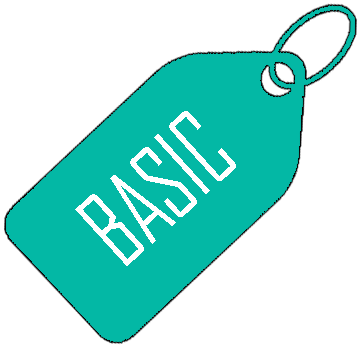
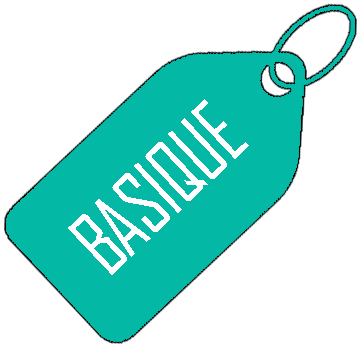
last changes

Changed region(s): [[0.1828, 0.2874, 0.7008, 0.8046]]

diff --git a/pages/tarif.js b/pages/tarif.js
@@ -55,9 +55,10 @@ export default function Tarif() {
             <div className={styles.tarif}>
               <h2>POGO Pack 50</h2>
               <img src="pack50.png" width="110px" height="110px"></img>
-              <p className={styles.price}>5DH offerts </p>
+              <p className={styles.price}>5 DH offerts </p>
               <p>
-                Pour chaque 50 DH rechargés, vous bénéficiez de 55 DH de solde{" "}
+                Pour chaque 50 DH rechargés, vous bénéficiez de
+                <strong> 55 DH </strong> de solde{" "}
               </p>
               <div className={styles.checkContainer}>
                 <div className={styles.check}>
@@ -81,10 +82,11 @@ export default function Tarif() {
               <h2>POGO Pack 100</h2>
 
               <img src="pack100.png" width="110px" height="110px"></img>
-              <p className={styles.price}> 20DH offerts </p>
+              <p className={styles.price}> 20 DH offerts </p>
 
               <p>
-                Pour chaque 100 DH rechargés, vous bénéficiez de 120 DH de solde
+                Pour chaque 100 DH rechargés, vous bénéficiez de{" "}
+                <strong> 120 DH </strong> de solde
               </p>
               <div className={styles.checkContainer}>
                 <div className={styles.check}>
@@ -108,11 +110,12 @@ export default function Tarif() {
               <h2>POGO Pack 200</h2>
 
               <img src="pack200.png" width="110px" height="110px"></img>
-              <p className={styles.price}>50DH offerts </p>
+              <p className={styles.price}>50 DH offerts </p>
 
               <p>
                 {" "}
-                Pour chaque 200 DH rechargés, vous bénéficiez de 250 DH de solde
+                Pour chaque 200 DH rechargés, vous bénéficiez de{" "}
+                <strong>250 DH </strong>de solde
               </p>
               <div className={styles.checkContainer}>
                 <div className={styles.check}>
@@ -136,14 +139,21 @@ export default function Tarif() {
         <h1 className={styles.title}>Votre assurance</h1>
         <div className={styles.assurance}>
           <div className={styles.description}>
-            <span> La sécurité </span> et le bien-être des utilisateurs de nos
-            services est <span>la priorité numéro 1 </span>de POGO. Afin de
-            protéger la communauté POGO, nous collaborons avec l’un des
-            meilleurs fournisseurs d’assurance dans le monde entier, Allianz,
-            pour que vous soyez 100% assurés en conduisant un véhicule POGO.
             <p>
               {" "}
-              <em>en partenariat avec</em>
+              <span> La sécurité </span> et le bien-être des utilisateurs de nos
+              services est <span>la priorité numéro 1 </span>de POGO.
+            </p>
+            <p>
+              {" "}
+              Afin de protéger la communauté POGO, nous collaborons avec l’un
+              des meilleurs fournisseurs d’assurance dans le monde entier,
+              Allianz, pour que vous soyez 100% assurés en conduisant un
+              véhicule POGO.
+            </p>
+            <p style={{ textAlign: "center" }}>
+              {" "}
+              <em>En partenariat avec</em>
             </p>
             <div>
               <img src="/allianz.png"></img>

diff --git a/components/dynamicAbout/dynamic.js b/components/dynamicAbout/dynamic.js
@@ -29,13 +29,12 @@ const Dynamic = ({ reverse }) => {
             <span>POGO T</span>
           </div>
           <h3>
-            Profitez de <span>nos trottinettes</span>
+            Profitez de nos trottinettes
             <br></br> en libre-service
           </h3>
           <p>
-            Avec la trottinette <span>POGO T </span>{" "}
-            <strong>de haute qualité</strong>, roulez doucement, confortablement
-            et élégamment
+            Avec la trottinette POGO T <strong>de haute qualité</strong>, roulez
+            doucement, confortablement et élégamment
           </p>
           <div className={styles.check}>
             <img src="/check.png" width="25px" height="25px"></img>
@@ -60,13 +59,11 @@ const Dynamic = ({ reverse }) => {
             <span>POGO S</span>
           </div>
           <h3>
-            Profitez de
-            <span> nos scooters</span> <br></br> en libre-service
+            Profitez de nos scooters<br></br> en libre-service
           </h3>
           <p>
-            Avec le scooter <span>POGO S </span>{" "}
-            <strong>de haut calibre</strong>, roulez en toute élégance, en toute
-            sécurité, sans polluer l’environnement !{" "}
+            Avec le scooter POGO S <strong>de haut calibre</strong>, roulez en
+            toute élégance, en toute sécurité, sans polluer l’environnement !{" "}
           </p>
           <div className={styles.check}>
             <img src="/check.png" width="25px" height="25px"></img>

diff --git a/styles/Home.module.scss b/styles/Home.module.scss
@@ -102,20 +102,18 @@
 
   .mockup {
     position: relative;
-    left: 15%;
+    left: 12%;
     bottom: -20%;
     @media (max-width: 1000px) {
       display: none;
     }
-    @media (min-width: 1900px) {
-      bottom: -100%;
+    @media (min-width: 1300px) {
+      bottom: -80%;
     }
     img {
       width: 500px;
-      // height: 830px;
       @media (min-width: 1900px) {
-        width: 600px;
-        // height: 830px;
+        width: 700px;
         margin-top: -450px;
       }
       @media (max-width: 1000px) {
@@ -132,7 +130,7 @@
   margin-top: 100px;
   // display: flex;
   padding: 0px 10px;
-  margin-bottom: 200px;
+  margin-bottom: 100px;
   width: 50%;
   @media (max-width: 900px) {
     justify-content: center;
@@ -167,7 +165,7 @@
     margin-top: -80px;
   }
   p {
-    width: 80%;
+    width: 70%;
     @media (max-width: 1000px) {
       width: 100%;
     }
@@ -238,8 +236,8 @@
       margin-bottom: 5px;
       margin-top: 5px;
       color: #03d3b9;
-      font-weight: 800;
-
+      font-weight: 700;
+      font-family: "Nunito", sans-serif;
       @media (min-width: 1300px) {
         font-size: 48px;
       }

diff --git a/components/dynamicAbout/dynamic.module.scss b/components/dynamicAbout/dynamic.module.scss
@@ -18,9 +18,15 @@
       @media (max-width: 900px) {
         width: 300px;
       }
+      @media (min-width: 1300px) {
+        width: 500px;
+      }
     }
     .scooterimg {
       width: 600px;
+      @media (min-width: 1300px) {
+        width: 750px;
+      }
     }
   }
   .description {
@@ -33,15 +39,15 @@
     flex-direction: column;
     justify-content: space-around;
     width: 500px;
-    height: 600px;
+    height: 500px;
     @media (min-width: 1300px) {
-      height: 700px;
+      height: 600px;
     }
     .type {
       display: flex;
       align-items: center;
       font-weight: 700;
-
+      color: #03d3b9;
       // height: 300px;
       font-size: 45px;
       @media (max-width: 900px) {
@@ -50,7 +56,7 @@
       .icon {
         font-size: 65px;
         margin-left: -20px;
-        color: #03d3b9;
+        color: white;
       }
     }
     h3 {

diff --git a/pages/index.js b/pages/index.js
@@ -25,7 +25,7 @@ export default function Home() {
       <Head>
         <title>POGO</title>
         <meta name="description" content="Generated by create next app" />
-        <link rel="icon" />
+        <link rel="icon" href="/favicon.ico" />
       </Head>
 
       <Layout>
@@ -131,8 +131,8 @@ export default function Home() {
             <a href="/tarif"> En savoir plus sur nos packs </a>
           </div>
           <div className={styles.tarif}>
-            <h2>POGO Prix Basic </h2>
-            <img src="basic.png" width="130px"></img>
+            <h2>POGO Prix Basique </h2>
+            <img src="basic.png" width="150px"></img>
             <p className={styles.price}>0.89 DH / min </p>
             <span style={{ fontWeight: "700" }}>0.19 DH / min de pause</span>
             <p>

diff --git a/pages/contact.js b/pages/contact.js
@@ -40,8 +40,8 @@ export default function Contact() {
             <h1>Contactez-nous</h1>
             <p>
               {" "}
-              Vous avez une question,un commentaire ou quelque chose à nous
-              signalez ? Nous sommes à votre disposition !
+              Vous avez une question, un commentaire ou quelque chose à nous
+              signaler ? Nous sommes à votre disposition !
             </p>
             <div className={styles.infoContainer}>
               {/* <div className={styles.info}>

diff --git a/components/footer/footer.js b/components/footer/footer.js
@@ -24,9 +24,7 @@ const Footer = () => {
 
           <div className={styles.coordonates}>
             <MdLocationOn className={styles.icon}></MdLocationOn>
-            <span>
-              209 B Lotissement Riad Laymoun Rte Meknès Mag 3 3000 Sect 0608 Fès
-            </span>
+            <span>209 B Lotissement Riad Laymoun Rte Meknès-Fès</span>
           </div>
           <div className={styles.coordonates}>
             <MdOutlineDialpad className={styles.icon}></MdOutlineDialpad>

diff --git a/pages/apropos.js b/pages/apropos.js
@@ -105,7 +105,7 @@ export default function Apropos() {
                 <span>Communauté </span>
                 <div></div>
                 <p>
-                  Nous créons des offres d’emploi localement travaillons en
+                  Nous créons des offres d’emploi localement et travaillons en
                   partenariat avec des organisations de haut calibre afin
                   d’améliorer la vie urbaine dans les villes marocaines.
                 </p>

diff --git a/components/scooter/scooter.js b/components/scooter/scooter.js
@@ -74,7 +74,7 @@ const Scooter = () => {
           </div>
           {isthree ? (
             <p>
-              Roulez où vous souhaiter dans le périmètre urbain renseigné sur
+              Roulez où vous souhaitez dans le périmètre urbain renseigné sur
               l’application tout en respectant le code de la route. Veuillez
               revenir au parking POGO pour terminer votre location.
             </p>

diff --git a/components/map/map.module.scss b/components/map/map.module.scss
@@ -1,14 +1,16 @@
 .mapContainer {
   background-color: #0d1721;
   color: white;
-  padding: 20px 50px;
+  padding: 10px 50px;
   border-radius: 20px;
+
+  margin-left: 45px;
+  margin-right: 45px;
   .title {
     padding: 10px 15px;
     border-radius: 20px;
     font-weight: 700;
     font-size: 55px;
-
     margin-bottom: 50px;
     color: #03d3b9;
     text-align: center;

diff --git a/components/app/app.js b/components/app/app.js
@@ -10,7 +10,7 @@ const App = () => {
   return (
     <div className={styles.appContainer}>
       <div className={styles.text}>
-        <h1>C'est parti!</h1>
+        <h1>C'est parti !</h1>
         <p>
           Vous voulez commencer une nouvelle expérience ? Tester un mode de
           transport urbain pionnier en Afrique ? Téléchargez notre application

diff --git a/components/how/how.js b/components/how/how.js
@@ -89,7 +89,7 @@ const How = () => {
           {isLocate ? (
             <span>
               Télécharge notre application et repère le{" "}
-              <span> parking POGO </span>le plus proche
+              <span> parking POGO </span>le plus proche.
             </span>
           ) : null}
           {isScan ? (
